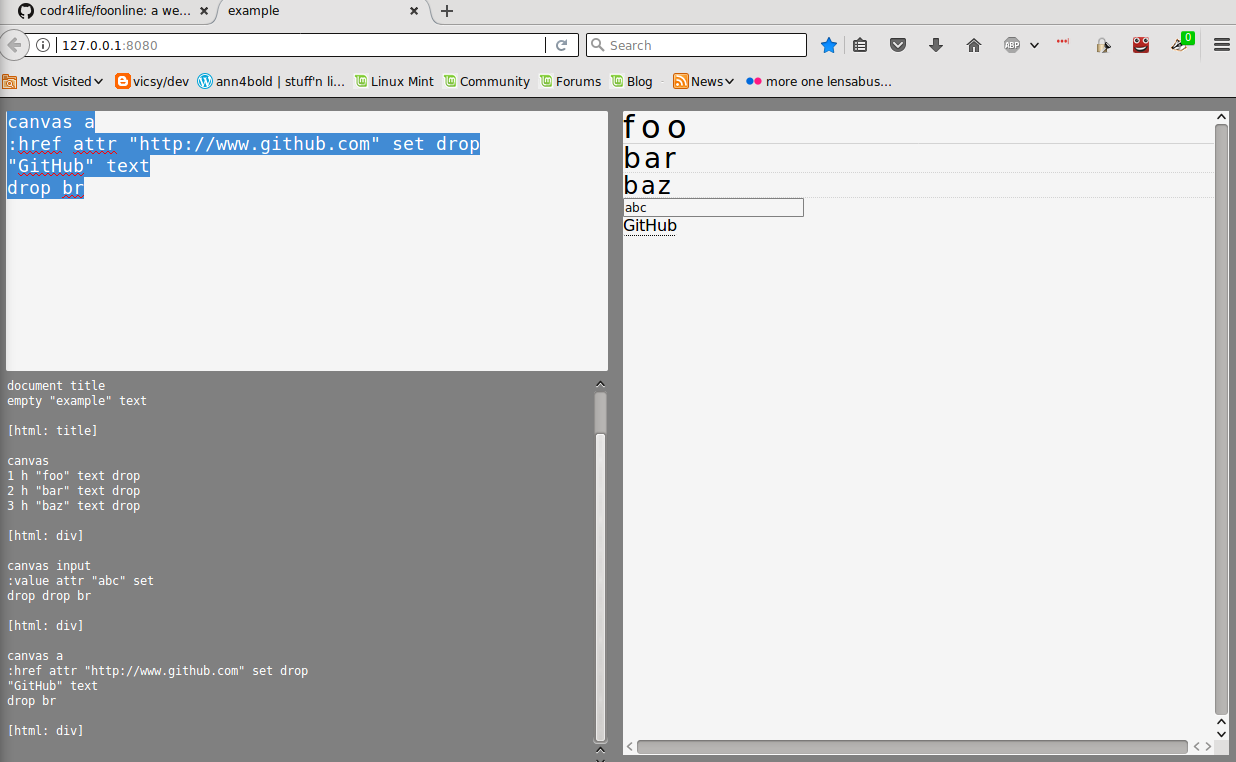
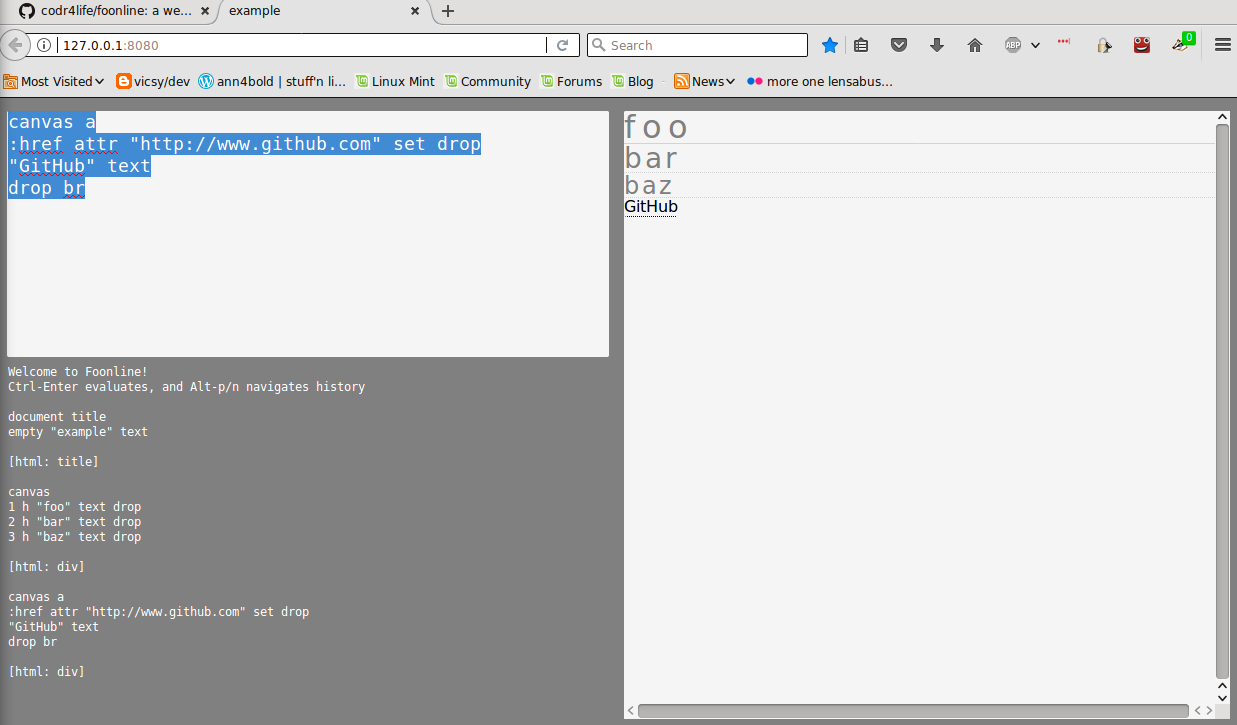
update examples

diff --git a/README.md b/README.md
@@ -32,10 +32,6 @@ canvas
 2 h "bar" text drop
 3 h "baz" text drop
 
-canvas input
-:value attr "abc" set
-drop drop br
-
 canvas a
 :href attr "http://www.github.com" set drop
 "GitHub" text
